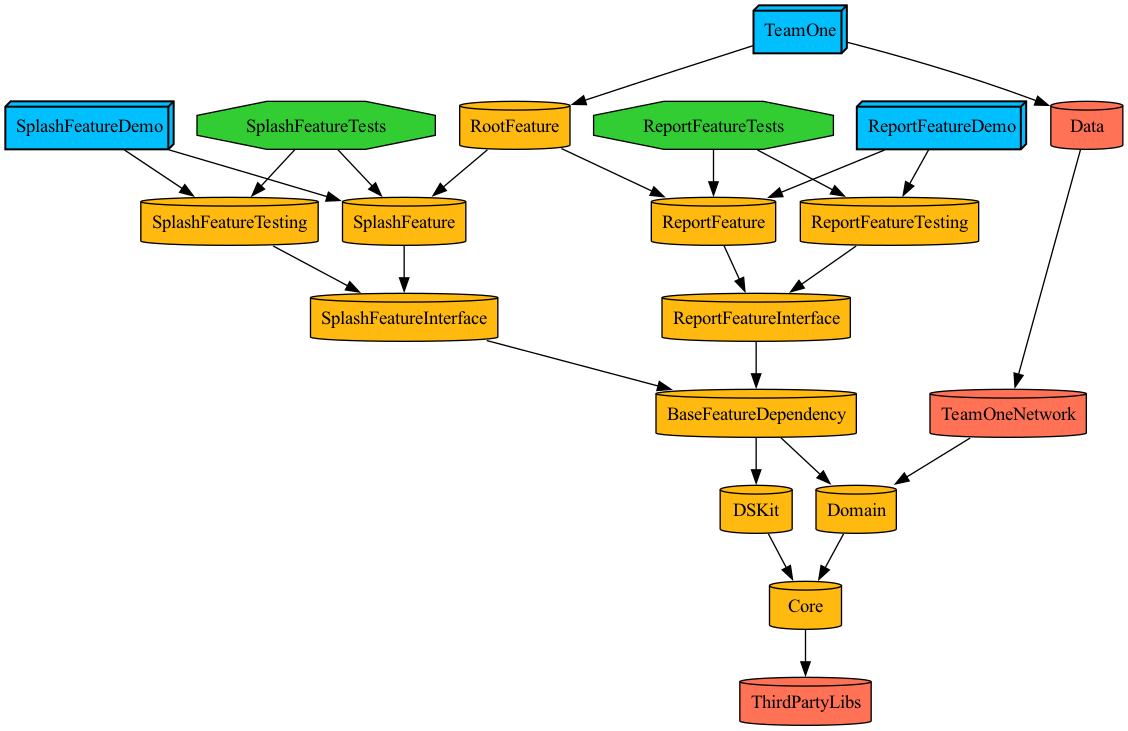
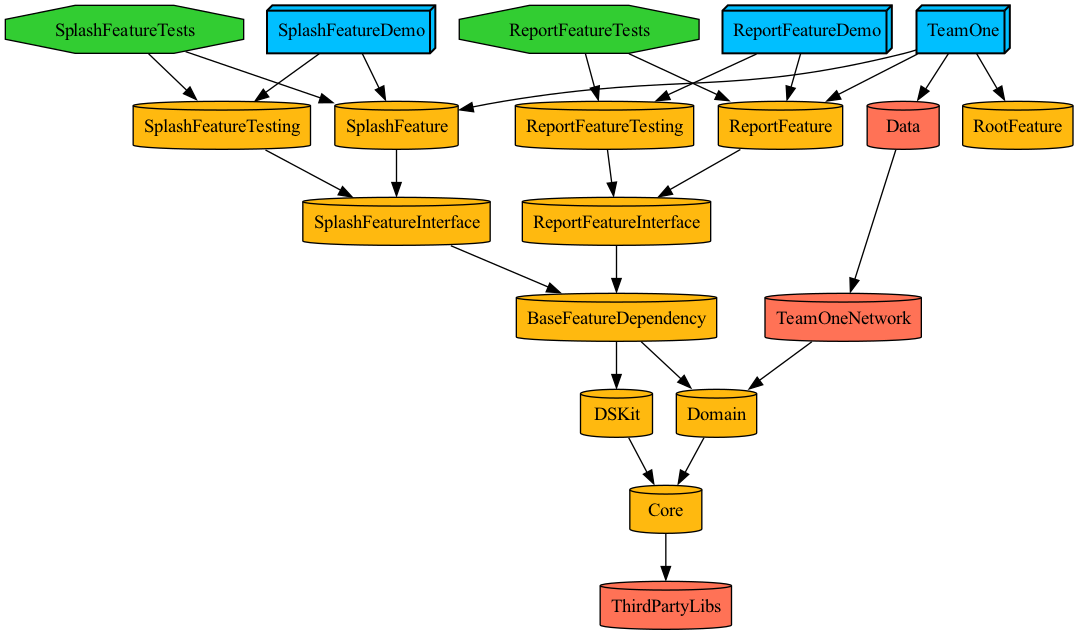
feat. root 삭제

diff --git a/Projects/Features/ReportFeature/Sources/ReportState.swift b/Projects/Features/ReportFeature/Sources/ReportState.swift
@@ -1,0 +1,63 @@
+//
+//  ReportState.swift
+//  ReportFeature
+//
+//  Created by Junyoung on 2/25/24.
+//  Copyright © 2024 TeamOne. All rights reserved.
+//
+
+import Foundation
+import ComposableArchitecture
+
+struct ReportData: Identifiable {
+    var id = UUID()
+    
+    let title: String
+    var isSelected: Bool
+}
+
+enum ReportType: CaseIterable {
+    case abusiveLanguage
+    case lowParticipation
+    case spamming
+    case promotionalContent
+    case inappropriateNicknameOrProfilePhoto
+    case privacyInvasion
+    case adultContent
+    case other
+    
+    var title: String {
+        switch self {
+        case .abusiveLanguage:
+            return "욕설 / 비하발언"
+        case .lowParticipation:
+            return "참여율 저조\n(응답률, 접속률, 투표 진행 등)"
+        case .spamming:
+            return "프로젝트 생성, 채팅 등 도배"
+        case .promotionalContent:
+            return "홍보성 컨텐츠"
+        case .inappropriateNicknameOrProfilePhoto:
+            return "부적절한 닉네임 / 프로필 사진"
+        case .privacyInvasion:
+            return "개인 사생활 침해"
+        case .adultContent:
+            return "19+ 음란성, 만남 유도"
+        case .other:
+            return "기타"
+        }
+    }
+}
+
+@ObservableState
+struct ReportState {
+    var reportModel: [ReportData] = [
+        ReportData(title: "욕설 / 비하발언", isSelected: false),
+        ReportData(title: "참여율 저조\n(응답률, 접속률, 투표 진행 등)", isSelected: false),
+        ReportData(title: "프로젝트 생성, 채팅 등 도배", isSelected: false),
+        ReportData(title: "홍보성 컨텐츠", isSelected: false),
+        ReportData(title: "부적절한 닉네임 / 프로필 사진", isSelected: false),
+        ReportData(title: "개인 사생활 침해", isSelected: false),
+        ReportData(title: "19+ 음란성, 만남 유도", isSelected: false),
+        ReportData(title: "기타", isSelected: false)
+    ]
+}

diff --git a/Projects/Features/ReportFeature/Sources/View/ReportView.swift b/Projects/Features/ReportFeature/Sources/View/ReportView.swift
@@ -1,0 +1,41 @@
+//
+//  ReportView.swift
+//  ReportFeature
+//
+//  Created by Junyoung on 2/25/24.
+//  Copyright © 2024 TeamOne. All rights reserved.
+//
+
+import Foundation
+import SwiftUI
+import ComposableArchitecture
+//import DSKit
+
+struct ReportView: View {
+    let store: StoreOf<ReportReducer>
+    
+    var body: some View {
+        ZStack {
+            VStack(spacing: 20) {
+                Text("님의 신고 사유를 알려주세요")
+//                    .font(Fonts.toFont(font: .body2))
+//                    .foregroundColor(Color(.teamOne.grayscaleEight))
+                
+                
+                List(store.reportModel) { model in
+                    Text(model.title)
+                        .padding(.vertical, 16)
+                }
+            }
+        }
+//        .background(Color(.teamOne.bgColor))
+        .cornerRadius(8)
+        
+    }
+}
+
+#Preview {
+    ReportView(store: Store(initialState: ReportState(), reducer: {
+        ReportReducer()
+    }))
+}

diff --git a/Projects/Features/ReportFeature/Sources/View/ReportButton.swift b/Projects/Features/ReportFeature/Sources/View/ReportButton.swift
@@ -1,8 +1,8 @@
 //
-//  ReportRow.swift
-//  TeamOne
+//  ReportButton.swift
+//  ReportFeature
 //
-//  Created by Junyoung on 2/16/24.
+//  Created by Junyoung on 2/25/24.
 //  Copyright © 2024 TeamOne. All rights reserved.
 //
 
@@ -24,7 +24,7 @@ struct ReportButton: View {
             
             Text(title)
                 .font(Fonts.toFont(font: .button2))
-                .foregroundColor(Color(.teamOne.grayscaleSeven))
+                .foregroundColor(Color(.grayscaleSeven))
             
             Spacer()
         }

diff --git a/Projects/Features/ReportFeature/Sources/ReportReducer.swift b/Projects/Features/ReportFeature/Sources/ReportReducer.swift
@@ -1,0 +1,26 @@
+//
+//  ReportReducer.swift
+//  ReportFeature
+//
+//  Created by Junyoung on 2/25/24.
+//  Copyright © 2024 TeamOne. All rights reserved.
+//
+
+import Foundation
+import ComposableArchitecture
+import Domain
+
+@Reducer
+struct ReportReducer {
+    
+    var body: some Reducer<ReportState, ReportAction> {
+        
+        Reduce { state, action in
+            switch action {
+            case .reportButtonTapped(let type):
+                
+                return .none
+            }
+        }
+    }
+}

diff --git a/Projects/Features/RootFeature/Project.swift b/Projects/Features/RootFeature/Project.swift
@@ -13,7 +13,7 @@ let project = Project.makeModule(
     name: "RootFeature",
     targets: [.dynamicFramework],
     internalDependencies: [
-        .Features.Report.Feature,
-        .Features.Splash.Feature
+//        .Features.Report.Feature,
+//        .Features.Splash.Feature
     ]
 )

diff --git a/Projects/TeamOne/Project.swift b/Projects/TeamOne/Project.swift
@@ -14,6 +14,8 @@ let project = Project.makeModule(
     targets: [.app],
     internalDependencies: [
         .data,
-        .Features.RootFeature
+        .Features.RootFeature,
+        .Features.Splash.Feature,
+        .Features.Report.Feature
     ]
 )

diff --git a/Projects/Features/ReportFeature/Sources/ReportAction.swift b/Projects/Features/ReportFeature/Sources/ReportAction.swift
@@ -1,0 +1,13 @@
+//
+//  ReportAction.swift
+//  ReportFeature
+//
+//  Created by Junyoung on 2/25/24.
+//  Copyright © 2024 TeamOne. All rights reserved.
+//
+
+import Foundation
+
+enum ReportAction {
+    case reportButtonTapped(ReportType)
+}
